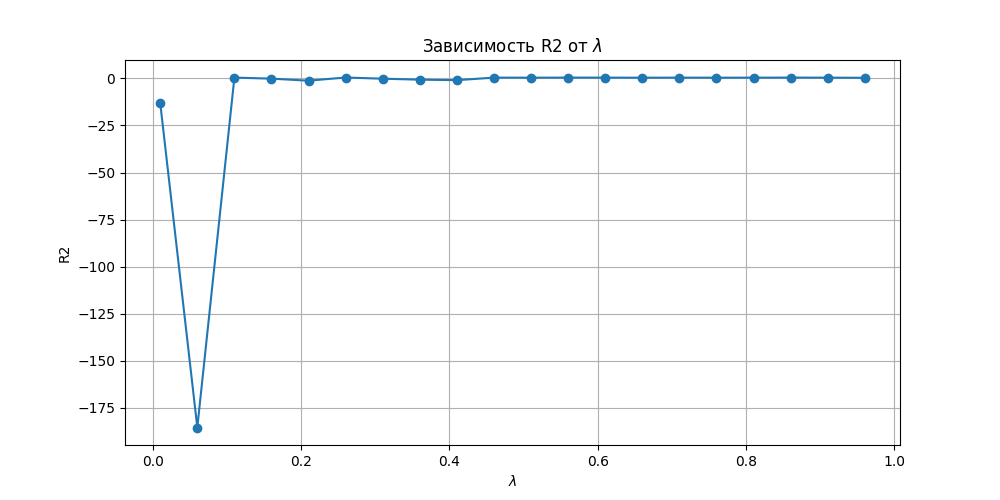
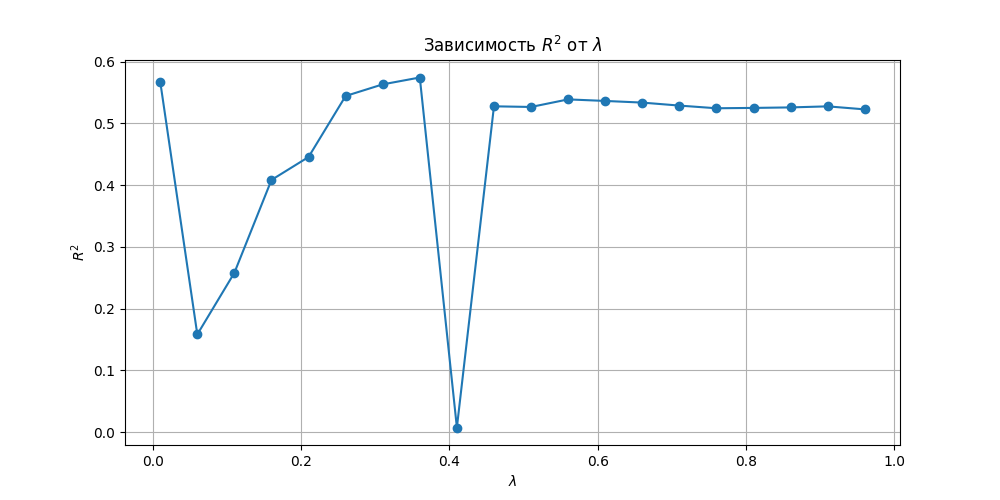
some fix

diff --git a/lab_3/Class/SGD.py b/lab_3/Class/SGD.py
@@ -1,11 +1,18 @@
 import numpy as np
 from Class.generalizing_ability import Cross_validation
+
 def predict(X, weights):
     return X.dot(weights)
 
 eps=1e-5
 
-def main(X, Y, lambda_reg : float, exp : float = 0.1, iter = 10000):
+def loss(X, Y, w, tau):
+    pred = predict(X,w)
+    err = pred - Y   # невязка (ошибка прогноза)
+    # регуляризируем только w без последнего фиктивного признака
+    return np.mean(err ** 2) + (tau / 2) * np.sum(w[:-1] ** 2)
+
+def main(X, Y, lambda_reg : float, exp : float = 0.001, iter = 10000):
     m, n = X.shape  
     weights = np.random.uniform(-1 / (2*n), 1 / (2*n), n)  
     Q = Cross_validation(X, Y, weights, lambda_reg)
@@ -17,13 +24,15 @@ def main(X, Y, lambda_reg : float, exp : float = 0.1, iter = 10000):
         i = np.random.randint(m)
         X_i = X[i]
         y_i = Y[i]
-        prediction = X_i.dot(weights)
-        error = prediction - y_i
-        gradient = 2*X_i.T.dot(error) + 2 * lambda_reg * weights
+        prediction : float = np.dot(weights,X_i)
+        error : float = float(prediction) - float(y_i)
+        gradient = 2 * error * X_i
+        gradient[1:]+= lambda_reg * weights[1:]
         weights -= (1 / (step + 1)) * gradient
-        curr_Q = error * exp - (1 - exp) * Q
+        curr_loss = loss(X, Y, weights, lambda_reg)
+        curr_Q = (curr_loss) * exp + (1 - exp) * Q
         mem_Q = np.append(mem_Q, curr_Q)
-        if (abs(curr_Q - Q)  < eps or np.linalg.norm(weights - mem_weights) < eps):
+        if (abs(curr_Q - Q)  < eps):
             cnt += 1
             if cnt == 200:
                 mem_weights = weights
@@ -31,4 +40,5 @@ def main(X, Y, lambda_reg : float, exp : float = 0.1, iter = 10000):
         else: 
             cnt = 0
         Q = curr_Q
+        mem_weights = weights
     return mem_weights, mem_Q

diff --git a/lab_3/main.py b/lab_3/main.py
@@ -8,9 +8,9 @@ from Class.generalizing_ability import Cross_validation, r2_score
 Data = fetch_california_housing()
 X, Y = Data.data, Data.target   
 #-------------------------------------------------------------------------------
-X = (X - np.mean(X, axis=0)) / np.std(X, axis=0) # нормировка
+X = (X - np.mean(X, axis=0)) / np.std(X, axis=0) 
 Y = (Y - np.mean(Y)) / np.std(Y)
-X=np.hstack((np.ones((X.shape[0],1)),X))
+X=np.hstack((-np.ones((X.shape[0],1)),X))
 #------------------------------------------------------------------------------------------
 X_train, X_test, y_train, y_test = train_test_split(X, Y, test_size=0.3, random_state=0)
 
@@ -19,7 +19,8 @@ r2_arr = []
 for tau in lambda_reg:
     w, curr_Q = sgd(X_train, y_train, tau)
     y_pred = X_test.dot(w)
-    r2 = r2_score(y_test, y_pred)
+    #r2 = r2_score(y_test, y_pred)
+    r2 = (np.corrcoef(X_test.dot(w),y_test)[0,1]) ** 2
     r2_arr.append(r2)
 
 best_lambda = lambda_reg[np.argmax(r2_arr)]
@@ -27,9 +28,9 @@ weights, best_Q =  sgd(X_train, y_train, best_lambda)
 
 plt.figure(figsize = (10, 5))
 plt.plot(lambda_reg, r2_arr, marker = 'o')
-plt.title("Зависимость R2 от $\\lambda$")
+plt.title("Зависимость $R^2$ от $\\lambda$")
 plt.xlabel("$\\lambda$")
-plt.ylabel("R2")
+plt.ylabel("$R^2$")
 plt.grid()
 plt.savefig('lab_3\\images\\R.png')
 plt.show()
@@ -50,4 +51,4 @@ print("функция потерь:",loss)
 best_coef = r**2
 print("коэф. корр.",best_coef)
 print("регуляризатор",best_lambda)
-print(weights)
+#print(weights)
